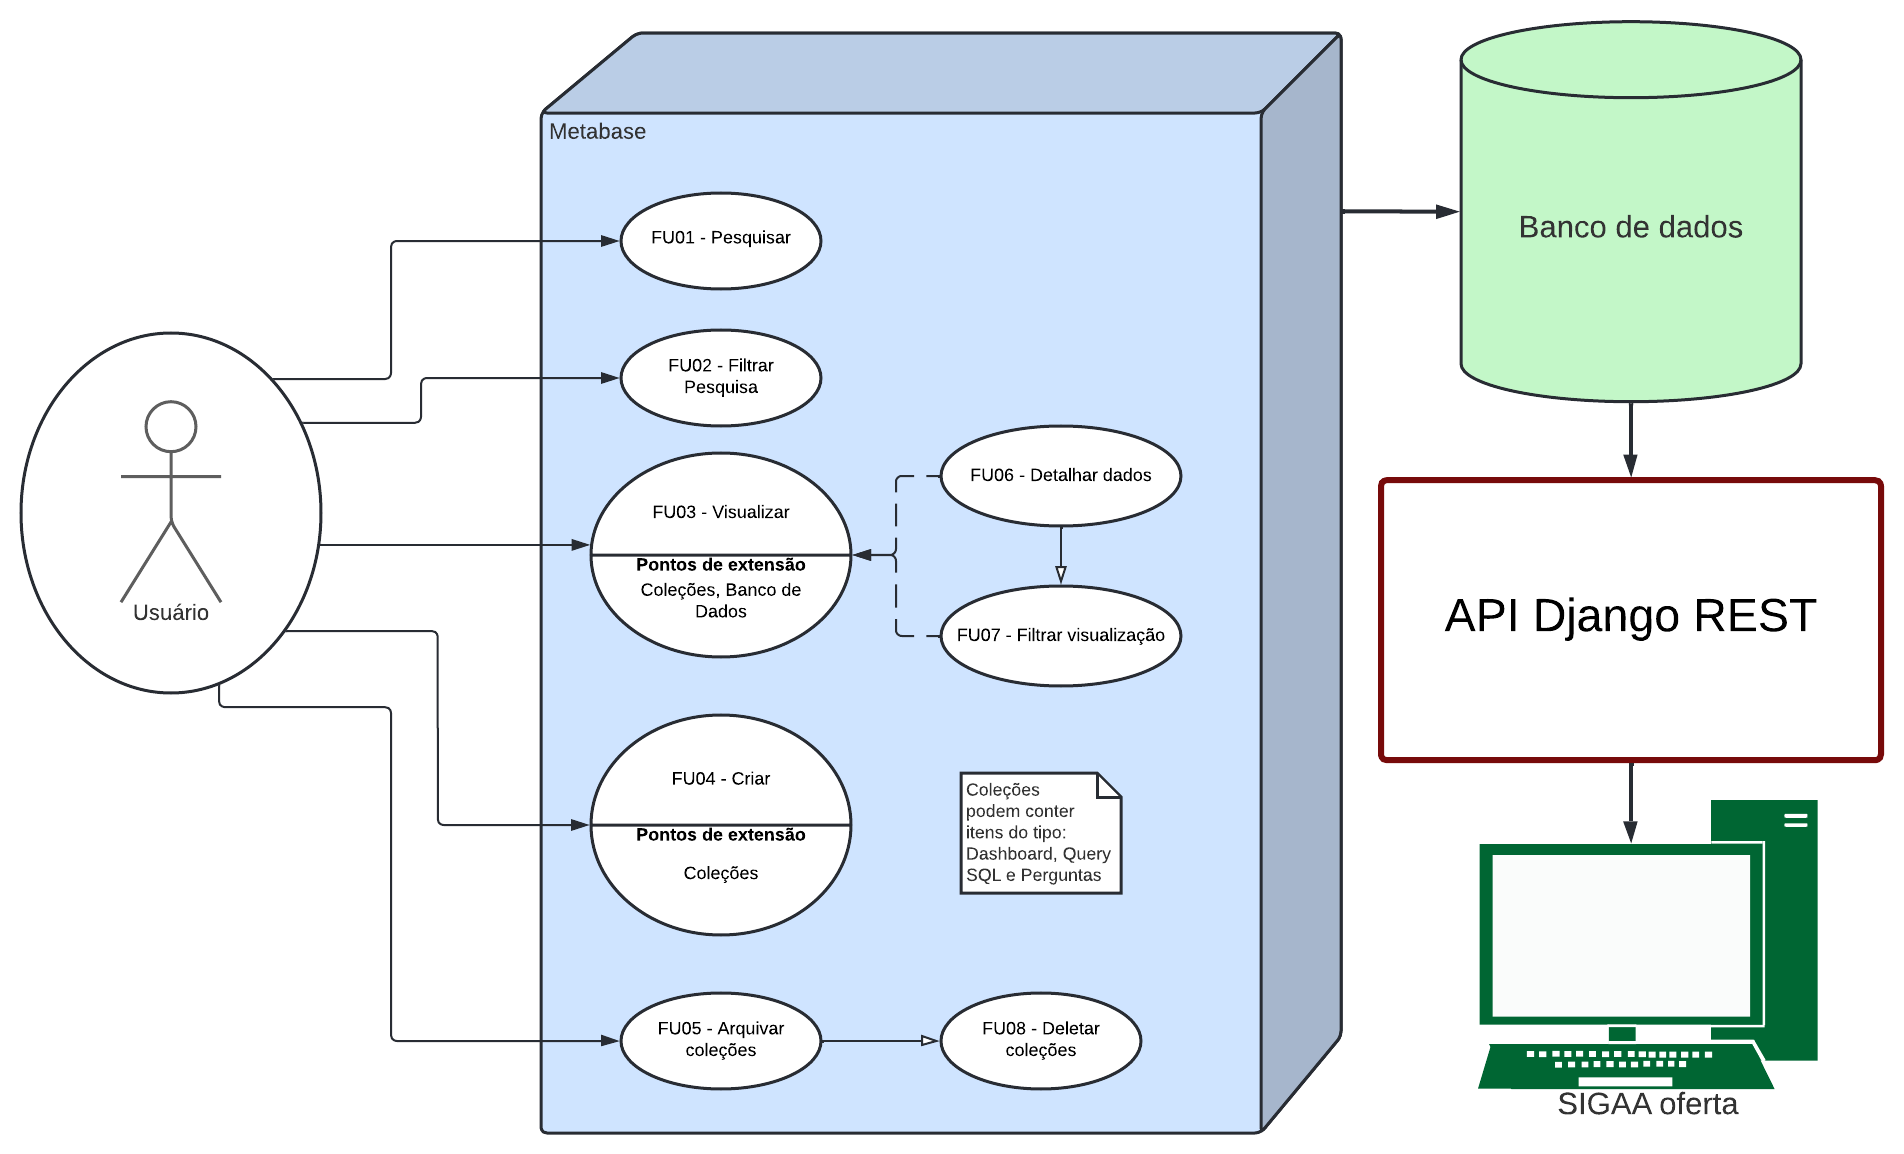
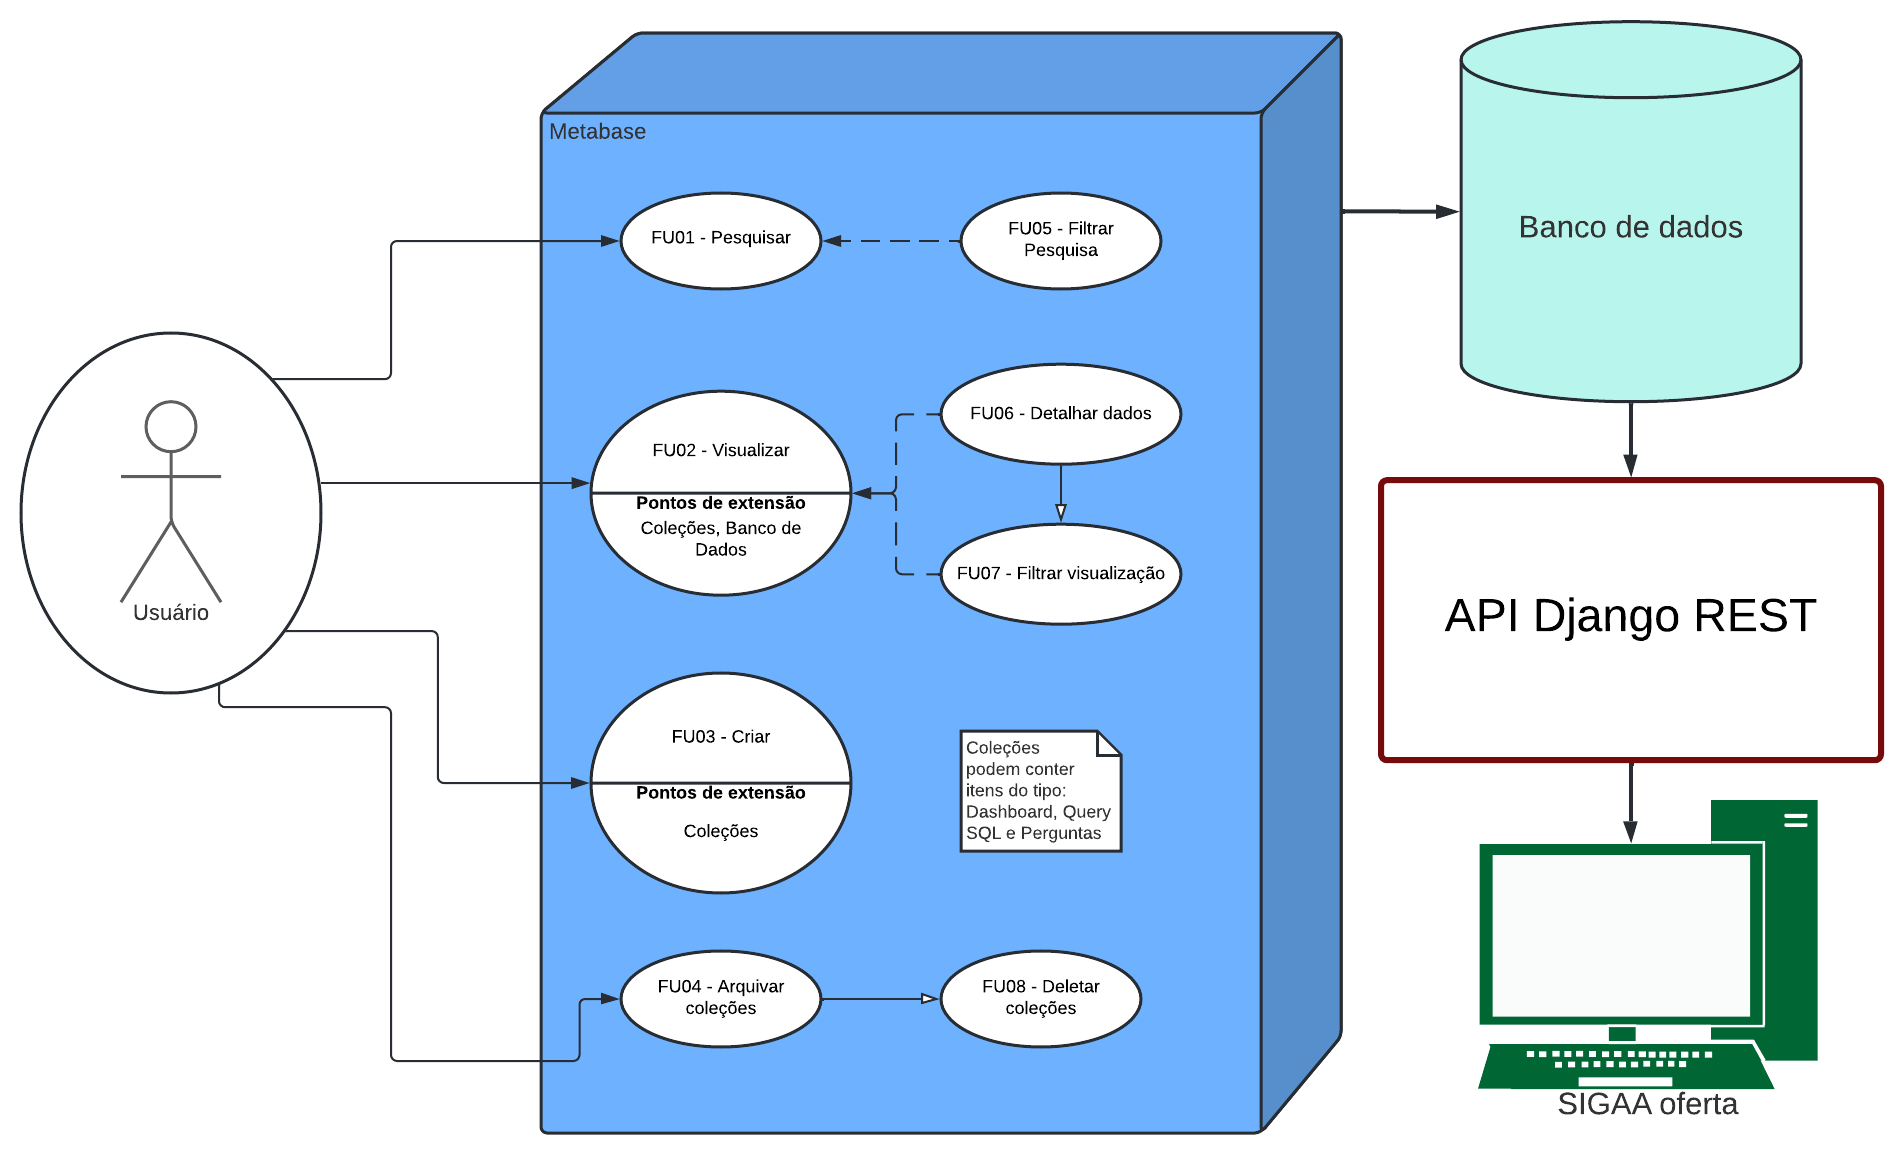
:pencil: (fga-eps-mds/2021.2-INDICAA#136): iniciando a nova tabela de funcionalidades

diff --git a/docs/documentacao/documento_de_arquitetura.md b/docs/documentacao/documento_de_arquitetura.md
@@ -59,7 +59,7 @@ Este documento está dividido em 6 grandes tópicos com subdivisões e tem como 
 
 <p align="justify">Este projeto utiliza diversas tecnologias que se complementam para a criação de uma aplicação web. A figura abaixo mostra um diagrama com a representação arquitetural do projeto.</p>
 
-(inserir imagem aqui)
+![Representação arquitetural do projeto INDICAA](../assets/imagens/representacao_arquitetural.png)
 
 <p align="justify">O <i>INDICAA</i> se baseia em realizar o scraping de dados do site acadêmica <i>SIGAA</i>, mais especificamente a seção de matérias ofertadas. O usuário acessa o aplicação <i>Metabase</i> por meio do naveagdor e assim, é possibilitada a visualização dos mesmos dados disponibilizados no sigaa, porém, de maneira mais visual e atrativa. Ele também pode realizar a criação de <i>dashboards</i> interativos por meio da interface do <i>Metabase</i>, gerar perguntas que retornam respostas com base nos dados obtidos por meio do scraping do <i>SIGAA</i>, realizar buscas diretamente no banco de dados por meio da linguagem <i>SQL</i> e criar coleções (que podem conter dashboards, perguntas e buscas <i>SQL</i> ao banco de dados).</p>
 
@@ -69,7 +69,9 @@ Este documento está dividido em 6 grandes tópicos com subdivisões e tem como 
 <div align="center">
     <img src="https://img.shields.io/badge/Selenium-43B02A?style=for-the-badge&logo=Selenium&logoColor=white"> <img src="https://img.shields.io/badge/django%20rest-ff1709?style=for-the-badge&logo=django&logoColor=white"> <img src="https://img.shields.io/badge/Figma-F24E1E?style=for-the-badge&logo=figma&logoColor=white"> <img src="https://img.shields.io/badge/Docker-2CA5E0?style=for-the-badge&logo=docker&logoColor=white"> <img src="https://img.shields.io/badge/Canva-%2300C4CC.svg?&style=for-the-badge&logo=Canva&logoColor=white"> <img src="https://img.shields.io/badge/Metabase-509EE3?style=for-the-badge&logo=metabase&logoColor=fff"> <img src="https://img.shields.io/badge/Heroku-430098?style=for-the-badge&logo=heroku&logoColor=white"> <img src="https://img.shields.io/badge/PostgreSQL-316192?style=for-the-badge&logo=postgresql&logoColor=white"> <img src="https://img.shields.io/badge/Python-FFD43B?style=for-the-badge&logo=python&logoColor=blue"> <img src="https://img.shields.io/badge/Discord-5865F2?style=for-the-badge&logo=discord&logoColor=white"><br/><br/>
 </div>
- 
+
+<strong>inserir descrição breve sobre as tecnologias</strong>
+
 # 3 Metas e Restrições da Arquitetura
 ## 3.1 Metas
 
@@ -92,42 +94,43 @@ Este documento está dividido em 6 grandes tópicos com subdivisões e tem como 
 
 ## 4.1 Diagrama de Casos de Uso
 
-![Diagrama de casos de uso](../assets/imagens/Diagrama_casos_de_uso.png)
+![Diagrama de casos de uso](../assets/imagens/diagrama_casos_de_uso.png)
 
 ## 4.2 Descrição dos Casos de Uso
 
 <strong>NECESSITA REFORMULAÇÃO</strong>
 
-### FU01 - Pesquisa
+### FU01 - Pesquisar
 |||
 ------|------
-**Descrição**| Esta funcionalidade permite o usuário pesquisar por departamento a partir da seleção de um campus |
+**Descrição**| Esta funcionalidade permite ao usuário a pesquisa a partir de um texto fornecido |
 **Atores**| Usuário |
-**Pré-condições**| O usuário deve ter selecionado um campus e preencher o campo de pesquisa  |
-**Pós-condições**| O usuário deve ter conseguido realizar a pesquisa por um decanato |
-**Fluxo principal**|1. O usuário abre a aplicação <br> 2. O usuário seleciona um campus <br> 3. O usuário preenche o campo de pesquisa e seleciona o que deve ser pesquisado de acordo com as sugestoes <br> 4. A pesquisa é realizada e o usuário tem acesso ao [FU07] e ao [FU03] o que leva a todos os outros FU's |
-**Fluxo Alternativo**| **FA01 - Não seleção do campus pelo usuário** <br> Caso o usuário nao selecione um campus a pesquisa nao poderá ser realzada|
-**Fluxo de exceção**| **FE01 - Conexão** <br> Se houver algum problema de conexão, a operação pode não ser concluída com sucesso|
+**Pré-condições**| O campo de pesquisa deve ter sido prenchido pelo usuário  |
+**Pós-condições**| Os resultados correspondentes serão disponibilizados na tela ao usuário |
+**Fluxo principal**|1. O usuário abre a aplicação <br/> 2. O usuário clica no campo de pesquisa <br/> 3. O usuário preenche o campo de pesquisa<br/> 4. A pesquisa é realizada e o usuário tem acesso aos resultados |
+**Fluxo Alternativo**| **FA01 - Barra de pesquisa selecionada mas não preenchida** <br/> Caso o usuário selecione a barra de pesquisa mas não a preencha, sugestões com base nos dados recentemente vistos aparecerão. |
+**Fluxo de exceção**| **FE01 - Conexão** <br/> Se houver algum problema de conexão, a operação pode não ser concluída com sucesso |
 
-### FU02 - Visualizar salas disponíveis
+### FU02 - Visualizar coleções e bancos de dados
 |||
 ------|------
-**Descrição**| Esta funcionalidade permite o usuário visualizar as salas disponíveis de forma mais detalhada pela lista |
+**Descrição**| Esta funcionalidade permite ao usuário a visualização dos dados inseridos em coleções, ou a visualização dos dados dos bancos de dados conectados |
 **Atores**| Usuário |
-**Pré-condições**| O usuário deve ter realizado a pesquisa e clicado para detalhar os gráficos |
-**Pós-condições**| O usuário deve ter conseguido visualizar as salas disponíveis de forma detalhada |
-**Fluxo principal**|1. O usuário realiza uma pesquisa[FU01] <br> 2. O usuário clica em detalhar <br> 3. O usuário visualiza uma lista com as informaçoes |
-**Fluxo de exceção**| **FE01 - Conexão** <br> Se houver algum problema de conexão, a operação pode não ser concluída com sucesso|
+**Pré-condições**| O usuário deve ter ido até a seção _Our analytics_ e selecionado um item da coleção, ou até o botão _Browse data_ na barra superior e selecionado um banco de dados |
+**Pós-condições**| O usuário deve ter conseguido visualizar os dados de um item da coleção ou os dados inseridos no banco de dados |
+**Fluxo principal**|1. O usuário vai até a seção _Our analytics_ <br/> 2. O usuário clica em _Browse all items_ <br/> 3. O usuário visualiza uma lista com os itens disponíveis <br/> 4. O usuário seleciona um item da lista <br/> 5. A janela de visualização de dados aparece, e o usuário tem acesso aos dados |
+**Fluxo secundário**|1. O usuário vai até a seção _Browse data_ <br/> 2. O usuário clica em um banco de dados cadastrado <br/> 3. O usuário visualiza uma lista com as tabelas disponíveis <br/> 4. O usuário seleciona um tabela da lista <br/> 5. A janela de visualização de dados aparece, e o usuário tem acesso aos dados |
+**Fluxo de exceção**| **FE01 - Conexão** <br/> Se houver algum problema de conexão, a operação pode não ser concluída com sucesso |
 
-### FU03 - Filtrar Pesquisa
+### FU03 - Criar coleções e itens
 |||
 ------|------
-**Descrição**| Esta funcionalidade permite o usuário filtrar sua pesquisa a partir do [FU07] ou do [FU04] |
+**Descrição**| Esta funcionalidade permite ao usuário a criação de coleções de itens e itens |
 **Atores**| Usuário |
 **Pré-condições**| O usuário deve ter realizado a pesquisa |
 **Pós-condições**| O usuário deve ter conseguido filtrar sua pesquisa tanto por modalidade quanto por disponibilidade |
-**Fluxo principal**|1. O usuário realiza uma pesquisa[FU01] <br> 2. O usuário visualiza as opçoes de filtragem á esquerda da pagina <br> |
-**Fluxo de exceção**| **FE01 - Conexão** <br> Se houver algum problema de conexão, a operação pode não ser concluída com sucesso|
+**Fluxo principal**|1. O usuário realiza uma pesquisa[FU01] <br/> 2. O usuário visualiza as opçoes de filtragem á esquerda da pagina <br/> |
+**Fluxo de exceção**| **FE01 - Conexão** <br/> Se houver algum problema de conexão, a operação pode não ser concluída com sucesso |
 
 ### FU07 - Visualizar gráficos
 |||
@@ -136,8 +139,8 @@ Este documento está dividido em 6 grandes tópicos com subdivisões e tem como 
 **Atores** | Usuário |
 **Pré-condições** | O usuário deverá ter realizado a pesquisa [FU01] |
 **Pós-condições** | O gráfico sobre as vagas e salas ocupadas deverá estar apresentado na tela para o usuário |
-**Fluxo principal** | 1. O usuário realiza a pesquisa com os filtros desejados[FU01] <br> 2. O gráfico é apresentado na tela <br> 3. O filtro é apresentado a esquerda para o usuário[FU03]  
-**Fluxo de exceção** | **FE01 - Conexão** <br>Se houver algum problema de conexão, a operação pode não ser concluída com sucesso
+**Fluxo principal** | 1. O usuário realiza a pesquisa com os filtros desejados[FU01] <br/> 2. O gráfico é apresentado na tela <br/> 3. O filtro é apresentado a esquerda para o usuário[FU03]  
+**Fluxo de exceção** | **FE01 - Conexão** <br/>Se houver algum problema de conexão, a operação pode não ser concluída com sucesso
 
 ### FU08 - Manual de Uso
 
@@ -147,8 +150,8 @@ Este documento está dividido em 6 grandes tópicos com subdivisões e tem como 
 **Atores** | Usuário |
 **Pré-condições** | O usuário deverá passar o cursor sobre o ícone de ajuda na margem superior direita |
 **Pós-condições** | Serão apresentadas informações sobre como realizar uma pesquisa e quais as funcionalidades das ferramentas disponíveis |
-**Fluxo principal** | 1. O usuário passar o cursor sobre o icone de ajuda  <br> 2. É Apresentado um popup com as infromações de uso 
-**Fluxo de exceção** | **FE01 - Conexão** <br>Se houver algum problema de conexão, a operação pode não ser concluída com sucesso
+**Fluxo principal** | 1. O usuário passar o cursor sobre o icone de ajuda  <br/> 2. É Apresentado um popup com as infromações de uso 
+**Fluxo de exceção** | **FE01 - Conexão** <br/>Se houver algum problema de conexão, a operação pode não ser concluída com sucesso
 
 # 5. Visão Lógica
 
